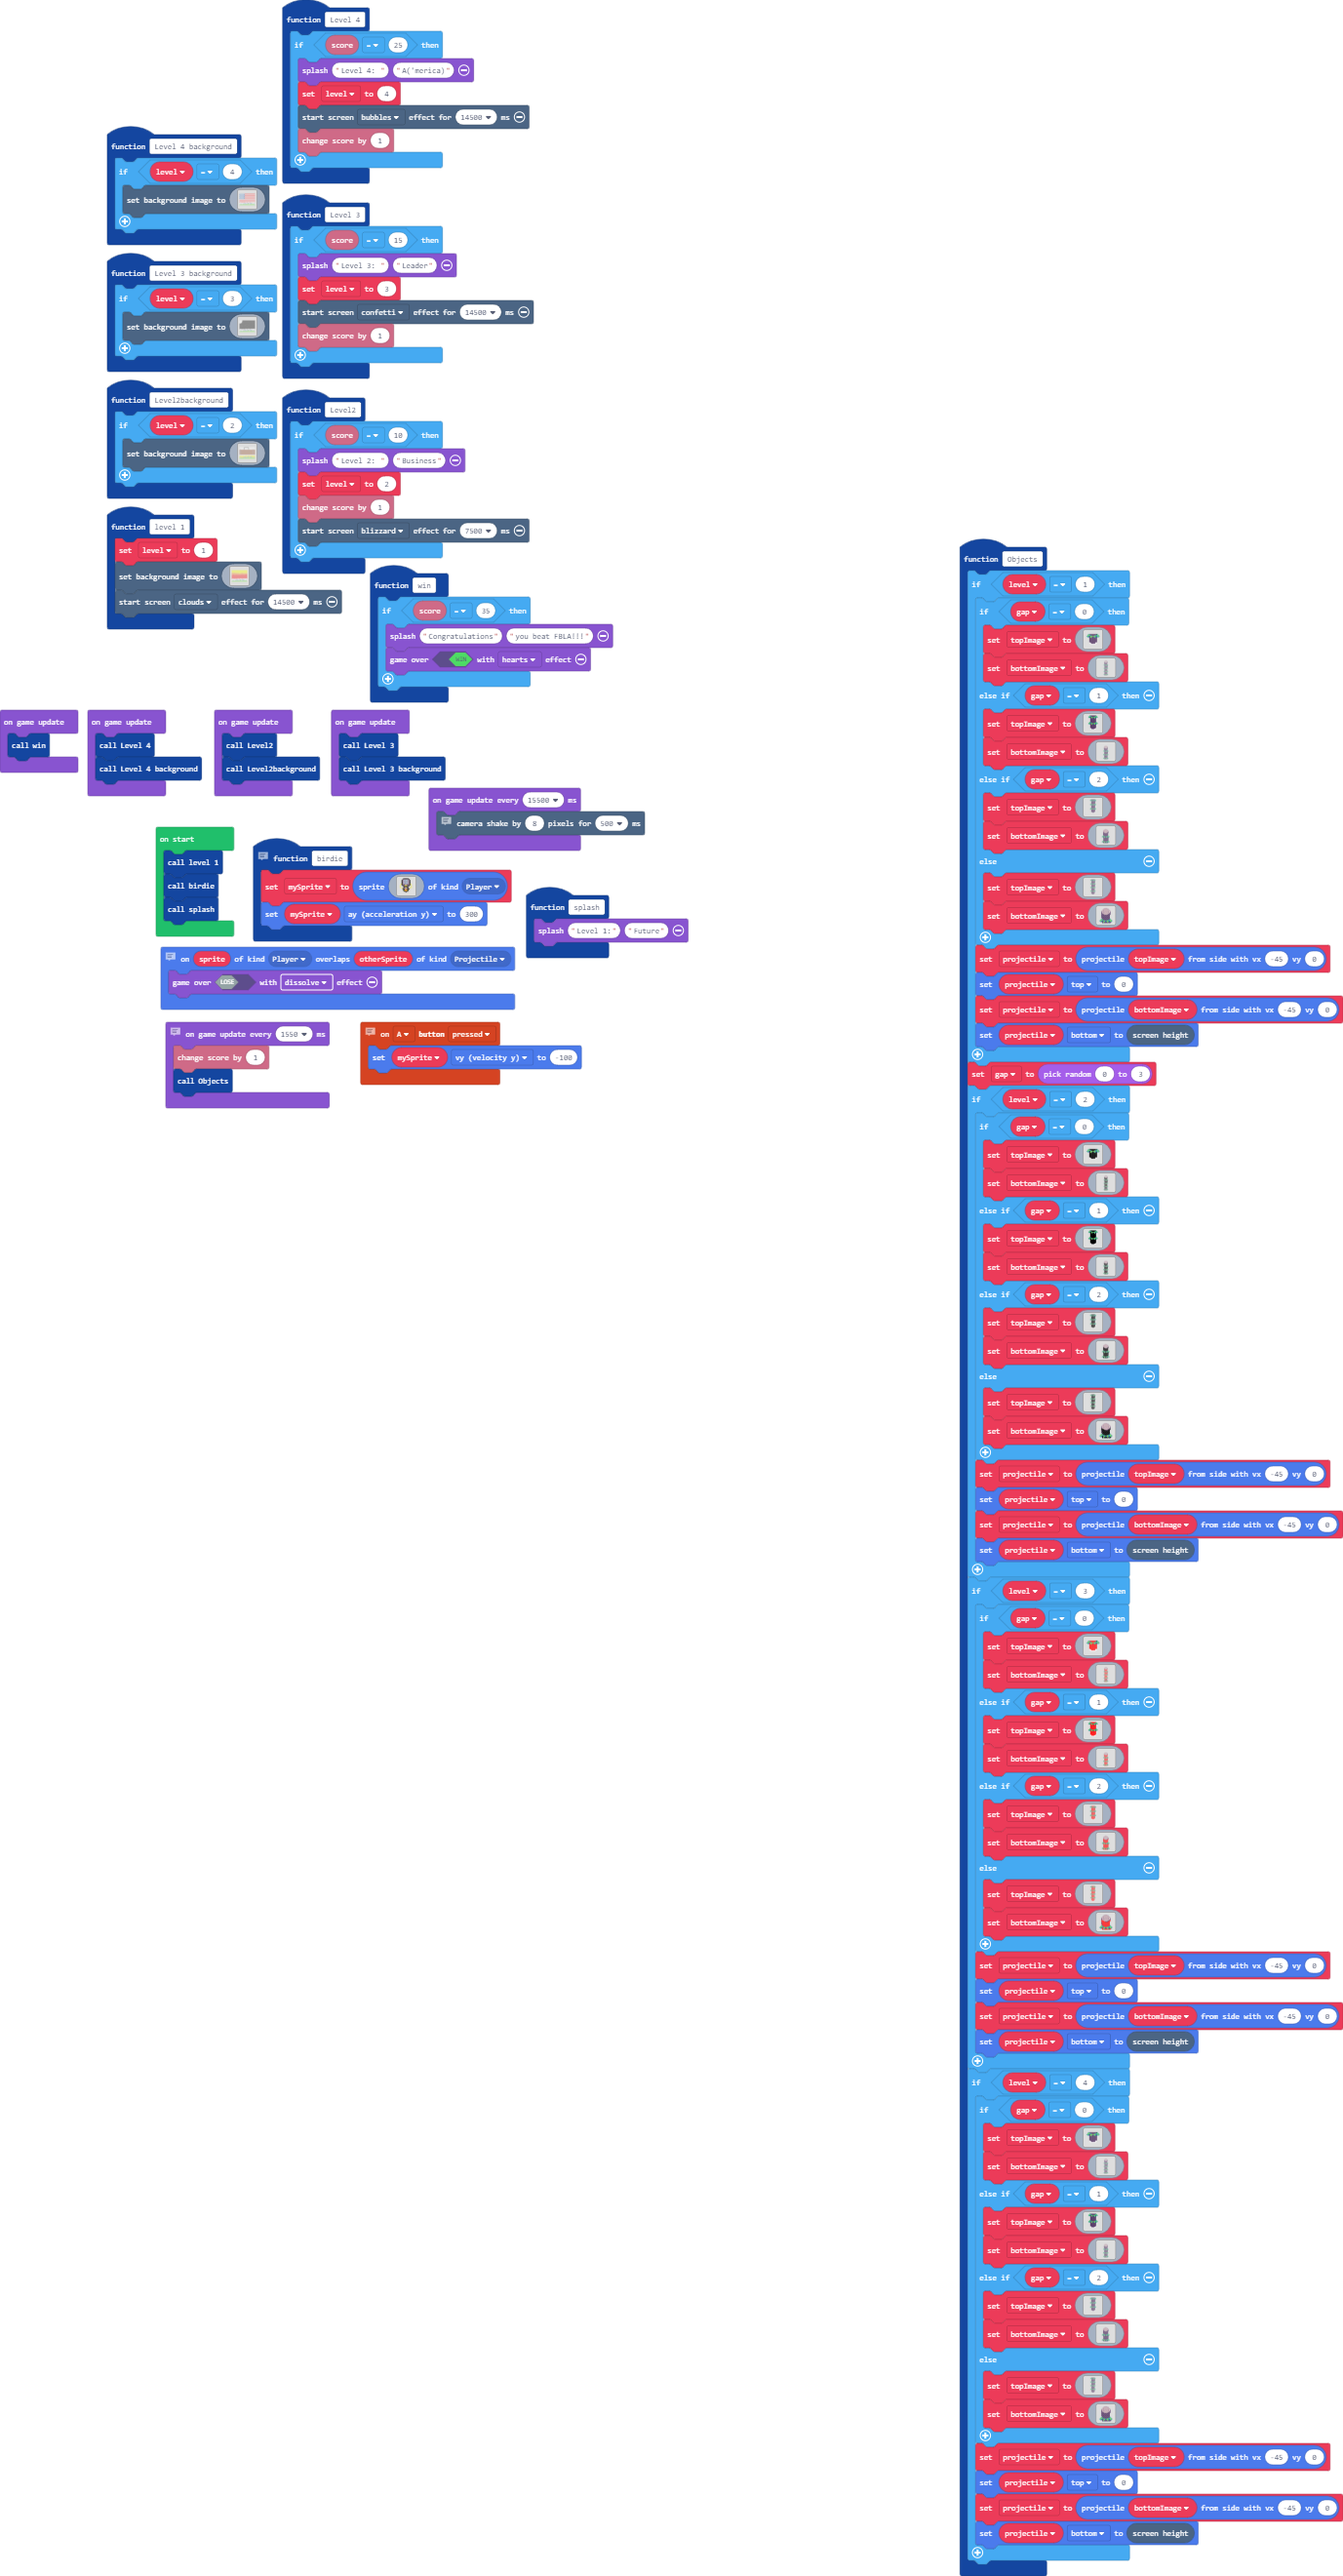
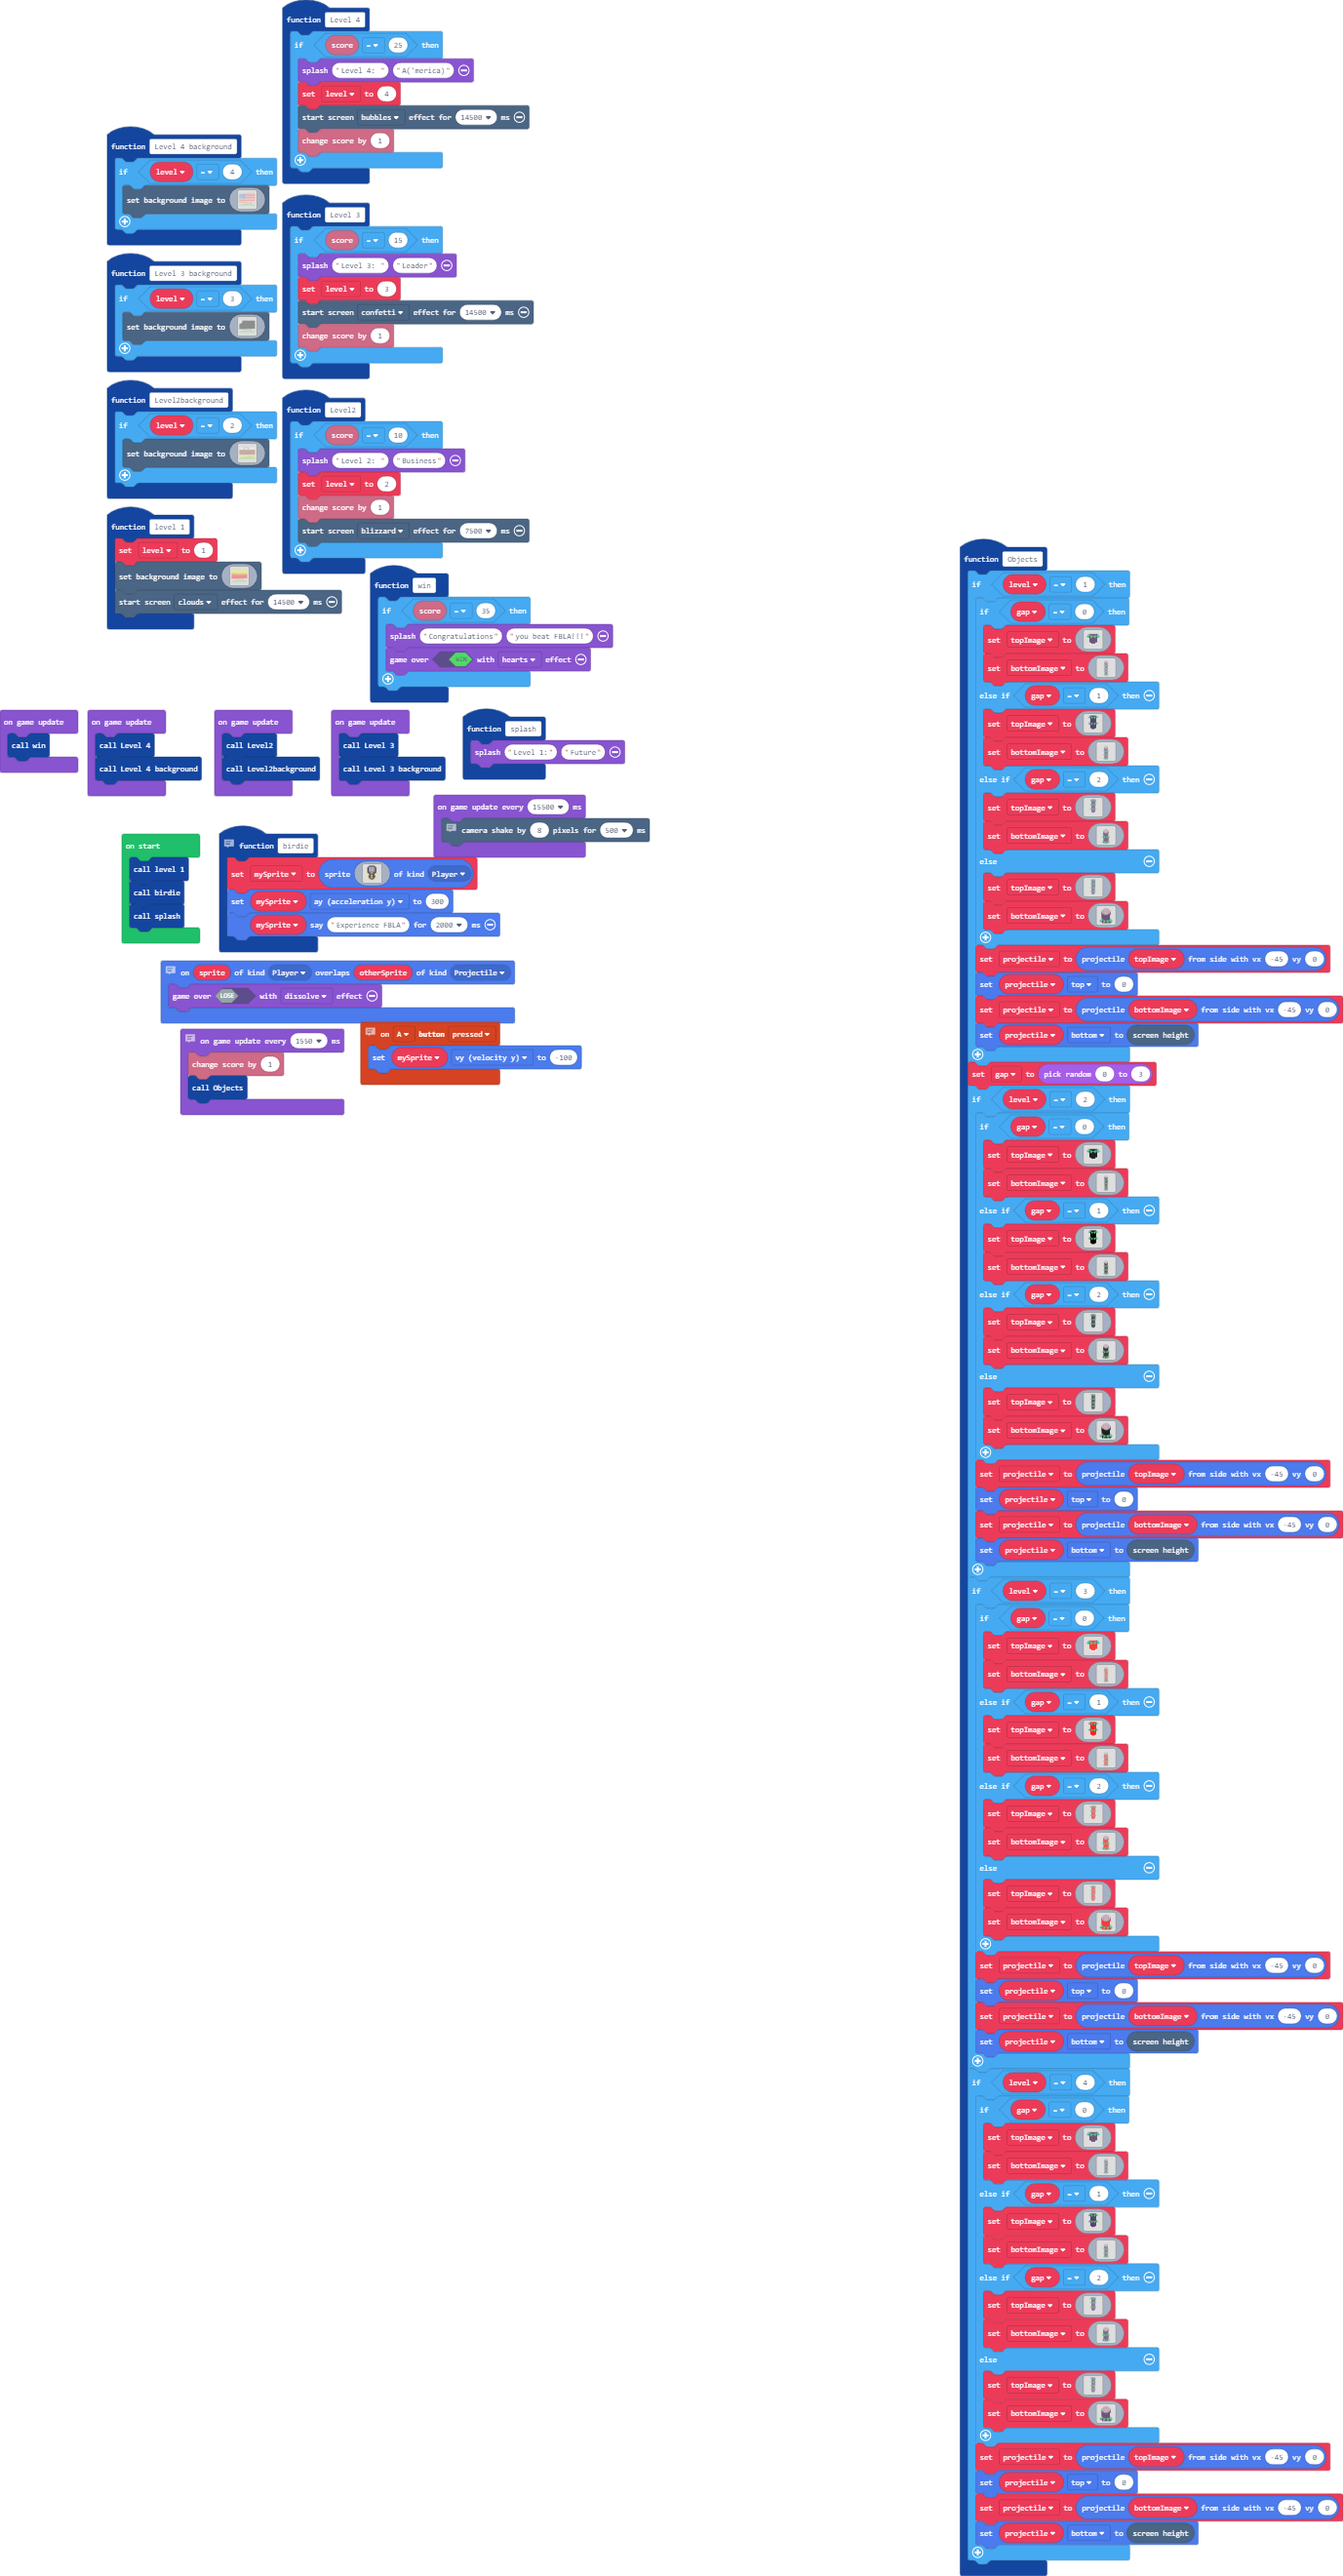
Update pxt.json, main.blocks, main.ts

diff --git a/main.ts b/main.ts
@@ -1618,6 +1618,7 @@ function birdie () {
 . . . . . . . . . . . . . . . . . . . . 
 `, SpriteKind.Player)
     mySprite.ay = 300
+    mySprite.say("Experience FBLA", 2000)
 }
 function level_1 () {
     level = 1
